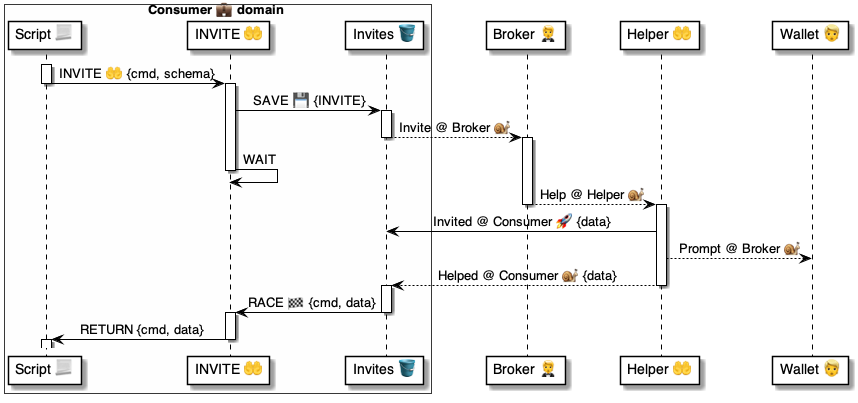
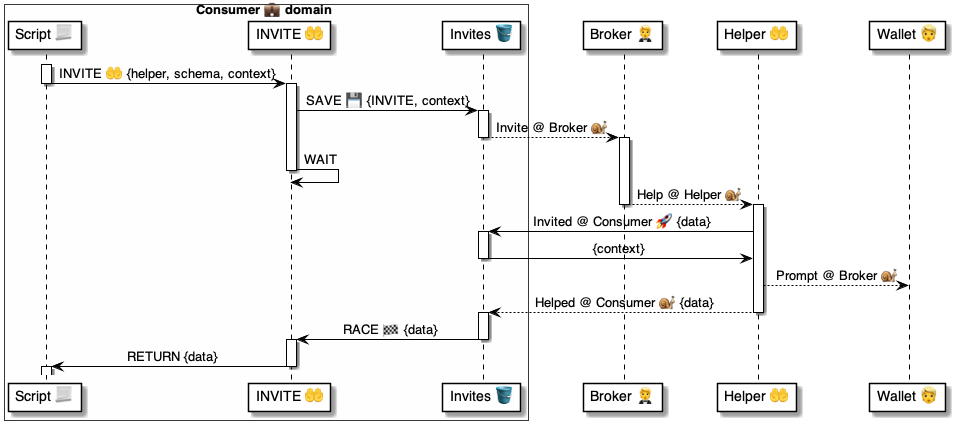
.

Changed region(s): [[0.0, 0.0, 0.9697, 0.9826], [0.8788, 0.8635, 1.0, 0.9826], [0.8788, 0.0298, 1.0, 0.1489]]

diff --git a/4 ⚙ Solution/20 🧑🦰 UI/Brokers 🤵/🤵📨 Broker msgs/Share 💼 Identify 💼🐌🤵/🤵 Identity 📃 handler.md b/4 ⚙ Solution/20 🧑🦰 UI/Brokers 🤵/🤵📨 Broker msgs/Share 💼 Identify 💼🐌🤵/🤵 Identity 📃 handler.md
@@ -1,0 +1,53 @@
+# 🤵 Identify@Broker 📃 handler
+
+> About
+* [Script 📃](<../../../../35 💬 Chats/Scripts 📃/Script 📃.md>) that implements the [`Identify@Broker` 🐌 msg](<🤵 Identify 🐌 msg.md>).
+
+<br/>
+
+
+## Diagram
+
+![alt text](<🤵 Identify ⚙ uml.png>)
+
+<br/>
+
+
+## Script
+
+```yaml
+📃 Identify@Broker:
+
+# Assert the required inputs
+- ASSERT $.Msg:
+    AllOf: Chat, Identity, Biostamp, Identified
+    UUIDs: Chat, Biostamp, Identified
+
+# Verify the message
+- VERIFY $.Msg
+
+# Get the Chatter
+- READ >> $chatter:
+    Set: Broker.Chatters
+    Key: 
+        Chat: $.Msg.Chat
+        Domain: $.Msg.From
+    Assert:
+        Chat.State: ACTIVE
+
+# Ask for the Identity verification
+- INVITE:
+    Chat: $.Msg.Chat
+    Broker: $.Hosted.Domain
+    Helper: $Identity
+    Schema: .ID/VERIFY
+    Context: 
+        Biostamp: $.Msg.Biostamp
+```
+
+Uses||
+|-|-
+|[Commands ⌘](<../../../../35 💬 Chats/Scripts 📃/Command ⌘.md>) | [`ASSESS`](<../../🤵⏩ Broker flows/Locate 🔆⏩🤵/🤵 Locate ⏩ flow.md>) [`INVITE`](<../../../../41 🎭 Domain Roles/Consumers 💼/💼⌘ Consumer cmds/INVITE 🤲/🤲 INVITE ⌘ cmd.md>) [`READ`](<../../../../37 Scripts 📃/📃 Commands ⌘/⌘ for datasets 🪣/READ 🧲/🧲 READ ⌘ cmd.md>) [`SEND`](<../../../../37 Scripts 📃/📃 Commands ⌘/⌘ for messages 📨/SEND 📬/📬 SEND ⌘ cmd.md>) [`VERIFY`](<../../../../37 Scripts 📃/📃 Commands ⌘/⌘ for messages 📨/VERIFY 🔐/🔐 VERIFY ⌘ cmd.md>)
+| [Datasets 🪣](<../../../../30 🧩 Data/Datasets 🪣/🪣 Dataset.md>) |  [`Broker.Chatters`](<../../🤵🪣 Broker tables/Chatters 👥 table/🪣 Chatters/🤵 Broker.Chatters 🪣 table.md>) 
+| [Holders 🧠](<../../../../35 💬 Chats/Scripts 📃/Holder 🧠.md>) | [`$.Msg`](<../../../../37 Scripts 📃/📃 Holders 🧠/System holders 🔩/$.Msg 📨/📨 $.Msg 🧠 holder.md>)
+|

diff --git a/4 ⚙ Solution/41 🎭 Domain Roles/Consumers 💼/💼⌘ Consumer cmds/INVITE 🤲/🤲 INVITE ⌘ cmd.md b/4 ⚙ Solution/41 🎭 Domain Roles/Consumers 💼/💼⌘ Consumer cmds/INVITE 🤲/🤲 INVITE ⌘ cmd.md
@@ -1,8 +1,9 @@
 # 😃🤲 Talker `INVITE` command
 
 > About
-* Relates to [Invite ⏩ flow](<../../../../41 🎭 Domain Roles/Hosts 🤗/🤗⏩ Host flows/Invite 🤗⏩🤲/🤗 Invite ⏩ flow.md>)
-* Used by [Helper 🤲 domain](<../../../Helpers 🤲/🤲 Helper/🤲🎭 Helper role.md>)
+* Part of the [Invite ⏩ flow](<../../../../41 🎭 Domain Roles/Hosts 🤗/🤗⏩ Host flows/Invite 🤗⏩🤲/🤗 Invite ⏩ flow.md>)
+* Used by [Helper 🤲 domains](<../../../Helpers 🤲/🤲 Helper/🤲🎭 Helper role.md>)
+* Implemented by the [`INVITE` 📃 script](<🤲 INVITE 📃 script.md>)
 
 ## FAQ
 
